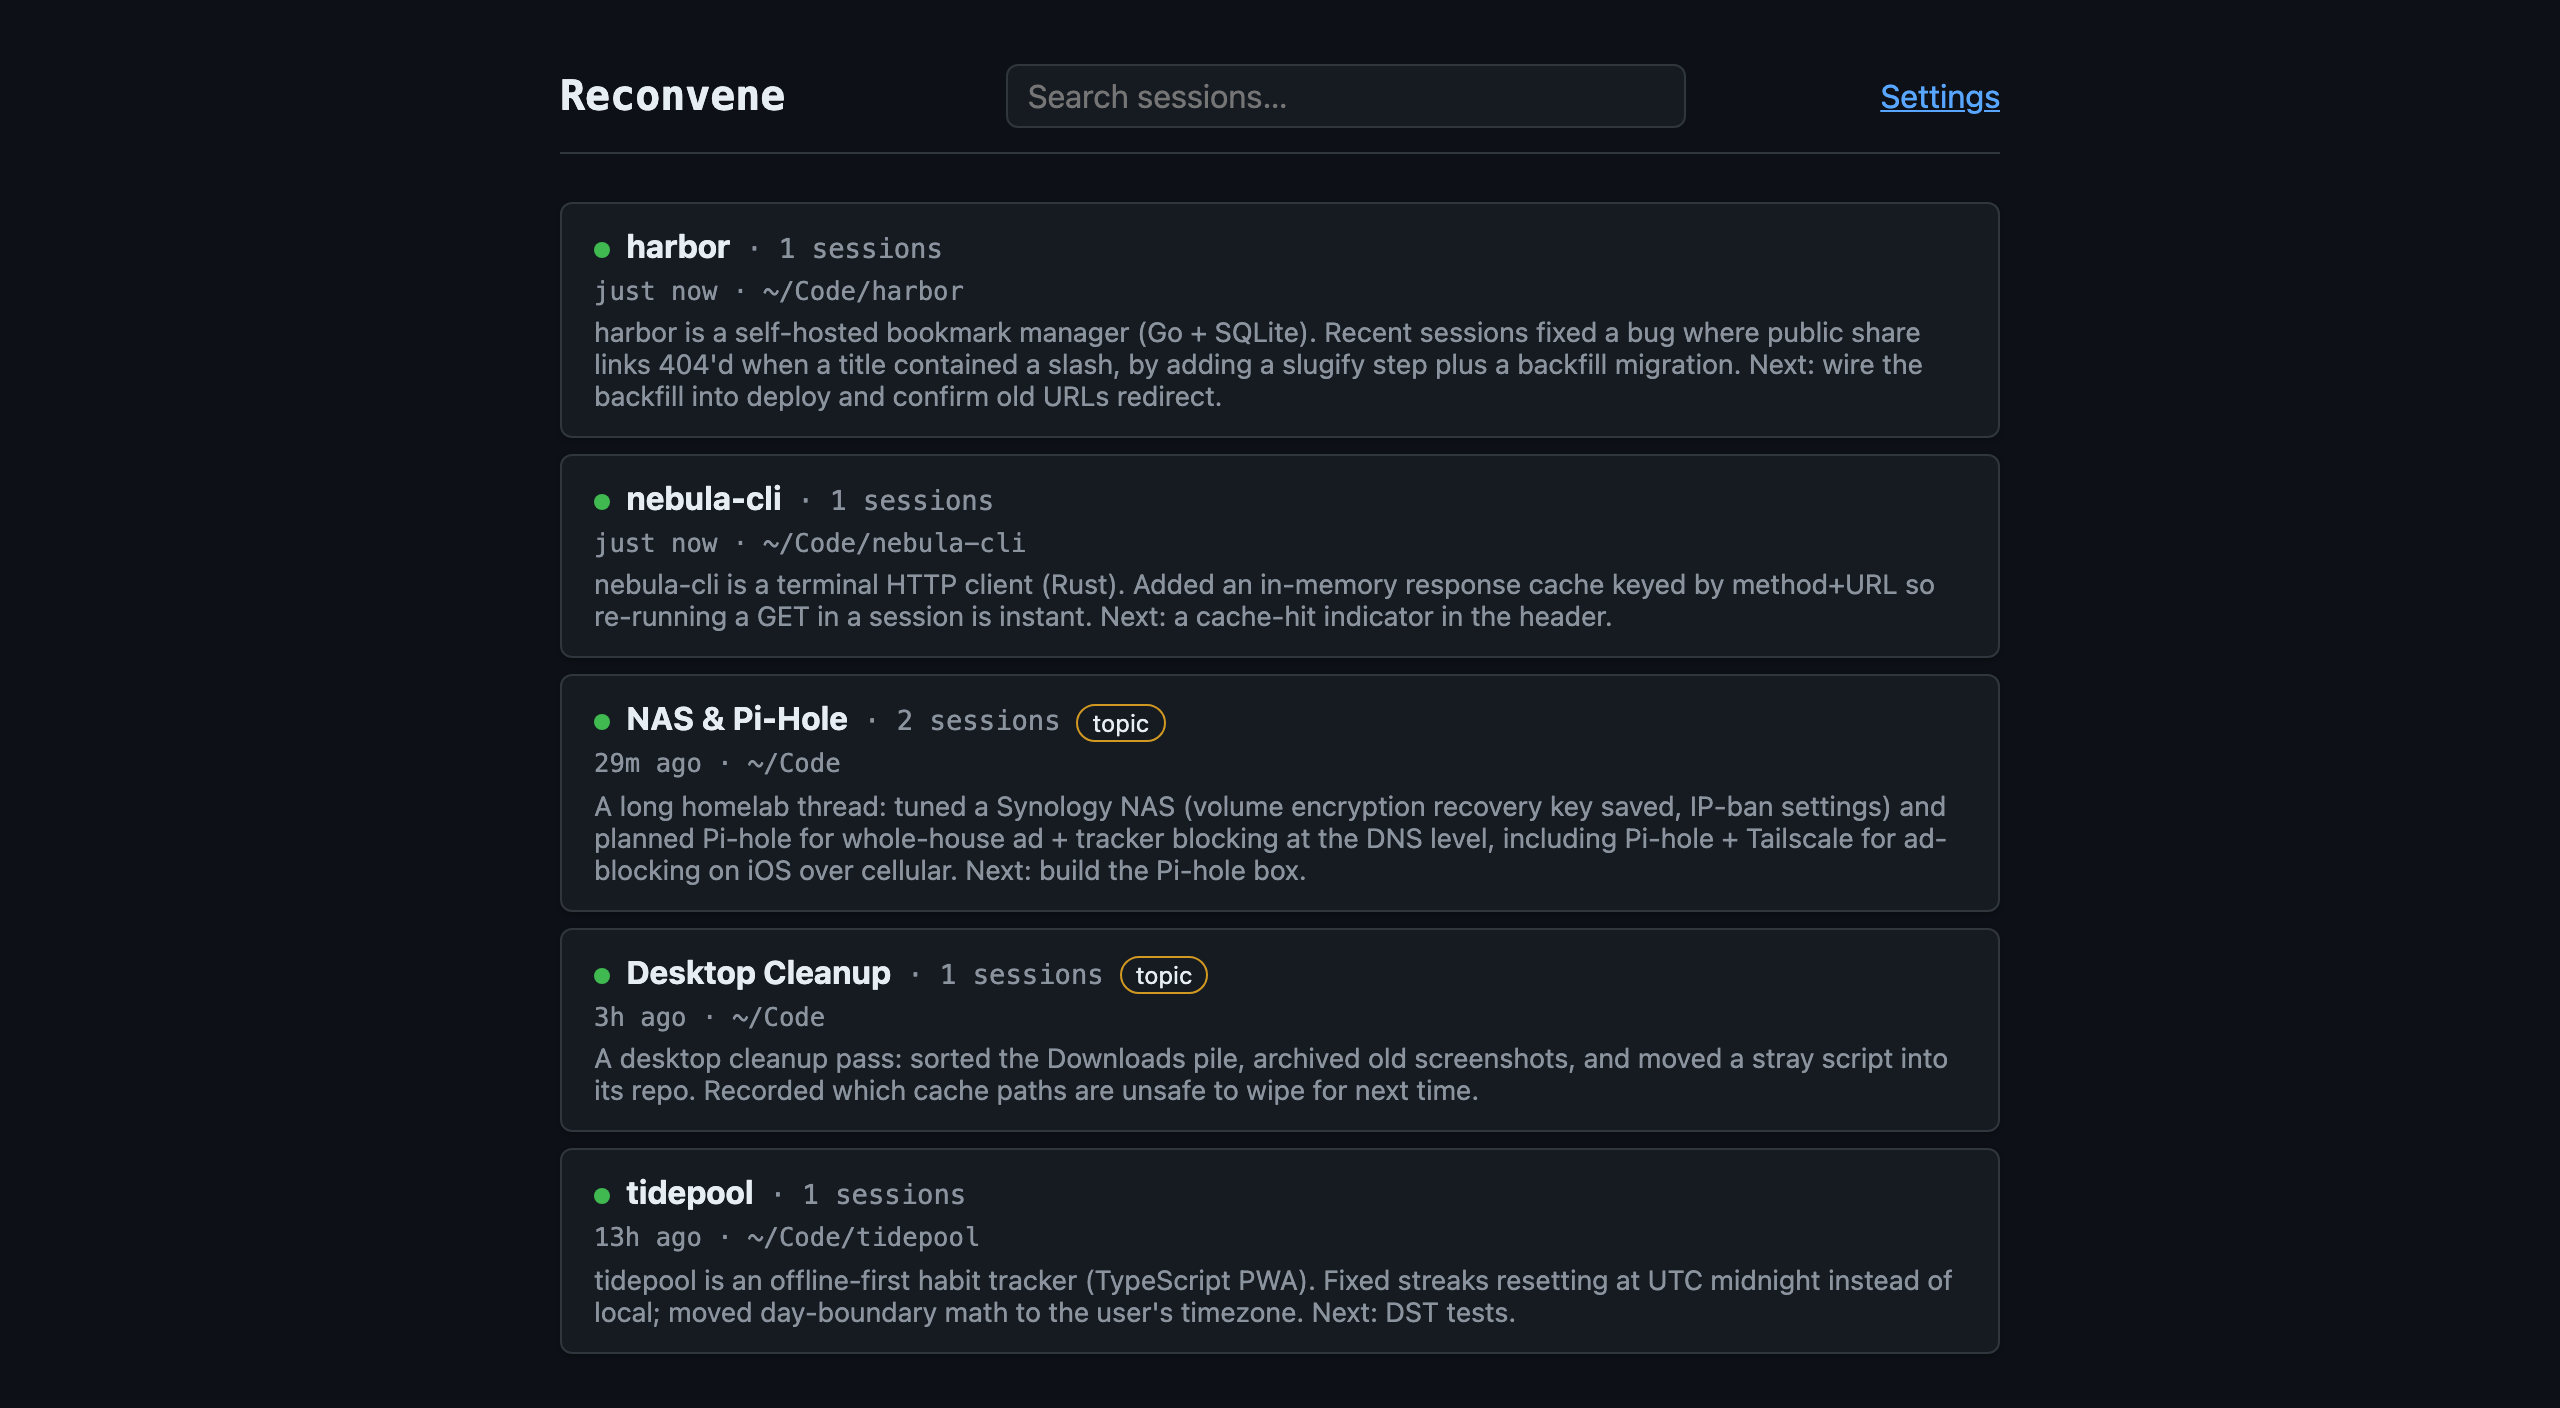
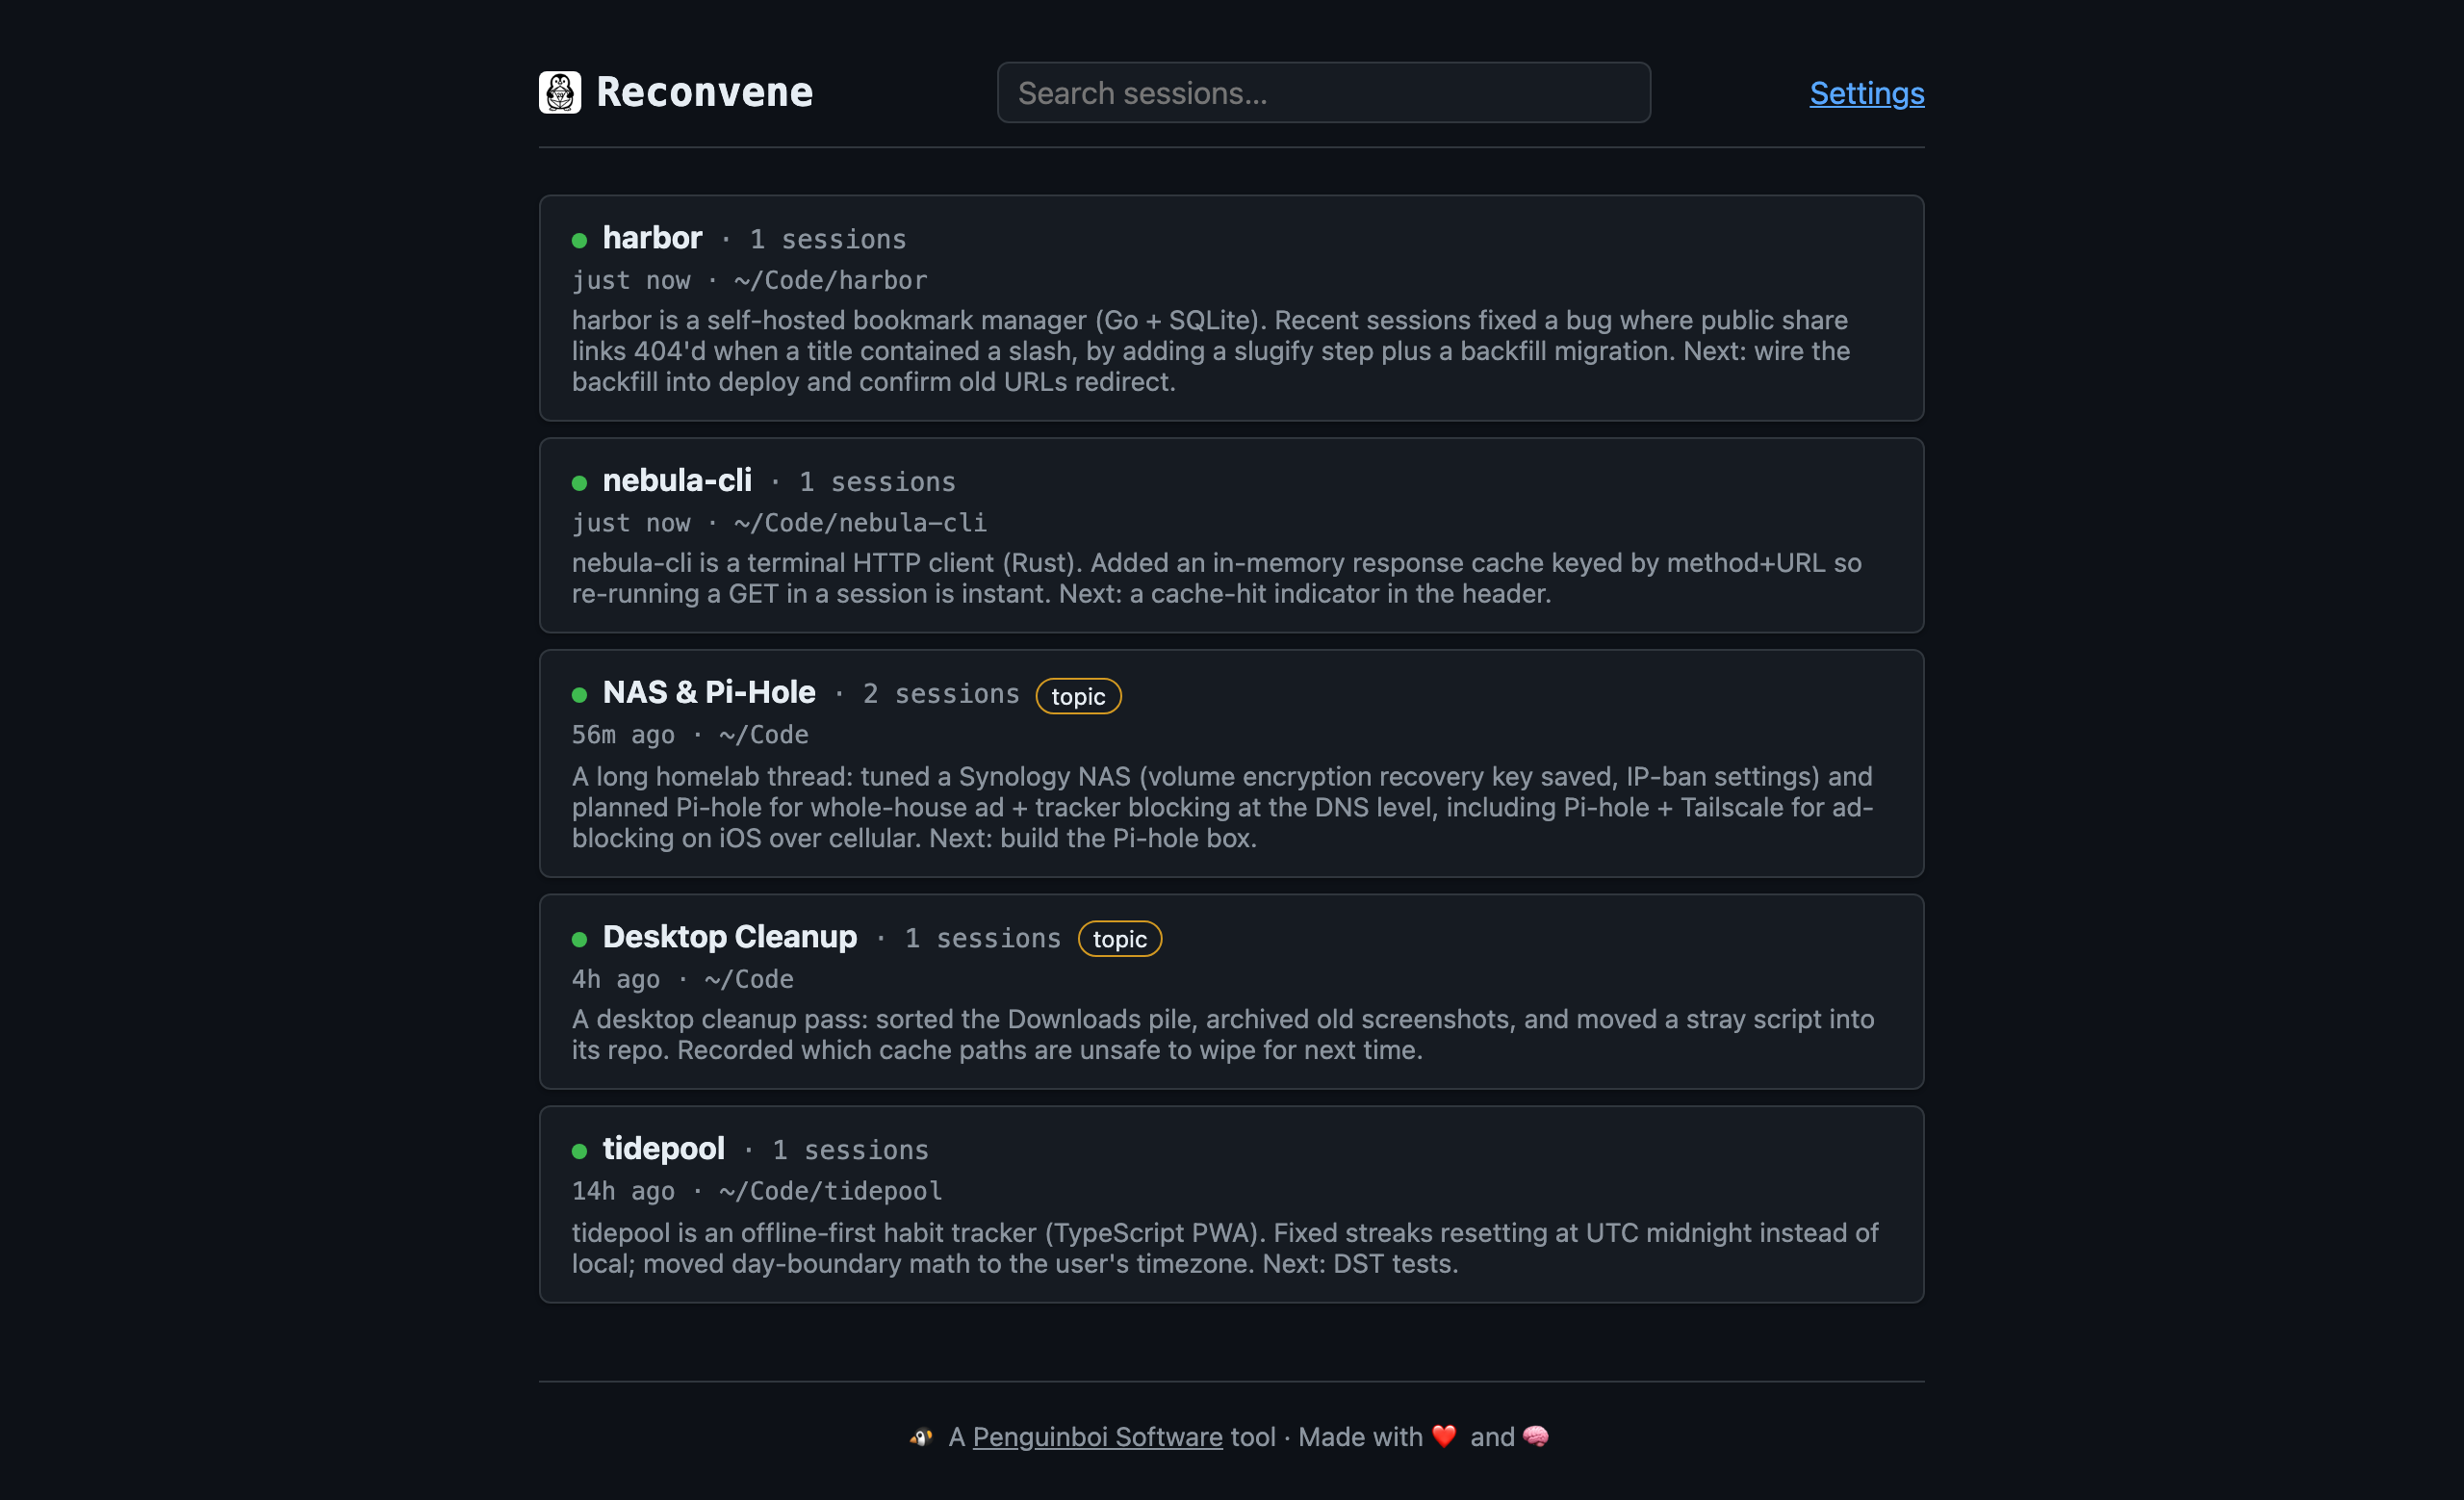
feat: Penguinboi Software brand polish
Tasteful identity + attribution without disrupting the GitHub-dark dev-tool look:
penguin+d20 favicon (from the landing set) + a small topbar logo mark, a quiet
'A Penguinboi Software tool · Made with ❤️ and 🧠' footer on both pages, a
theme-color meta, a README footer, pyproject authorship/URL, and a one-line CLI
byline. No games fonts, no navy repaint, no branding in the fzf panes.

diff --git a/reconvene/web/static/style.css b/reconvene/web/static/style.css
@@ -84,6 +84,14 @@ a:hover {
 
 .topbar-home {
   text-decoration: none;
+  display: inline-flex;
+  align-items: center;
+  gap: 8px;
+}
+
+.topbar-logo {
+  display: block;
+  border-radius: 4px;
 }
 
 .topbar-home:hover {
@@ -319,3 +327,19 @@ table td, table th {
   opacity: 0.6;
   font-style: italic;
 }
+
+/* Penguinboi Software footer — quiet attribution in reconvene's own muted palette */
+.site-footer {
+  margin: 40px auto 24px;
+  padding-top: 16px;
+  max-width: 900px;
+  text-align: center;
+  font-size: 0.85em;
+  color: var(--text-muted);
+  border-top: 1px solid var(--border);
+}
+.site-footer a {
+  color: var(--text-muted);
+  text-decoration: underline;
+}
+.site-footer a:hover { color: var(--link); }

diff --git a/reconvene/web/static/index.html b/reconvene/web/static/index.html
@@ -3,11 +3,15 @@
 <head>
   <meta charset="utf-8">
   <title>Reconvene</title>
+  <meta name="theme-color" content="#0d1117">
+  <link rel="icon" type="image/png" sizes="32x32" href="/favicon-32x32.png">
+  <link rel="icon" type="image/png" sizes="16x16" href="/favicon-16x16.png">
+  <link rel="apple-touch-icon" href="/apple-touch-icon.png">
   <link rel="stylesheet" href="/style.css">
 </head>
 <body>
   <div class="topbar">
-    <a href="/" class="topbar-home"><h1>Reconvene<span class="cursor">▊</span></h1></a>
+    <a href="/" class="topbar-home"><img class="topbar-logo" src="/favicon.png" alt="Penguinboi Software" width="22" height="22"><h1>Reconvene<span class="cursor">▊</span></h1></a>
     <input id="searchBox" type="search" placeholder="Search sessions…" autocomplete="off">
     <a href="/settings.html">Settings</a>
   </div>
@@ -21,6 +25,9 @@
       <button id="modalCancel">Cancel</button>
     </div>
   </div>
+  <footer class="site-footer">
+    🐧 A <a href="https://penguinboisoftware.com" rel="noopener noreferrer">Penguinboi Software</a> tool · Made with ❤️ and 🧠
+  </footer>
   <script src="/app.js"></script>
 </body>
 </html>

diff --git a/reconvene/web/static/settings.html b/reconvene/web/static/settings.html
@@ -3,11 +3,15 @@
 <head>
   <meta charset="utf-8">
   <title>Reconvene — Settings</title>
+  <meta name="theme-color" content="#0d1117">
+  <link rel="icon" type="image/png" sizes="32x32" href="/favicon-32x32.png">
+  <link rel="icon" type="image/png" sizes="16x16" href="/favicon-16x16.png">
+  <link rel="apple-touch-icon" href="/apple-touch-icon.png">
   <link rel="stylesheet" href="/style.css">
 </head>
 <body>
   <div class="topbar">
-    <a href="/" class="topbar-home"><h1>Reconvene<span class="cursor">▊</span></h1></a>
+    <a href="/" class="topbar-home"><img class="topbar-logo" src="/favicon.png" alt="Penguinboi Software" width="22" height="22"><h1>Reconvene<span class="cursor">▊</span></h1></a>
     <a href="/">Journal</a>
   </div>
   <h2>Settings</h2>
@@ -40,6 +44,9 @@
     <p>Extra arguments appended to <code>claude --resume &lt;session&gt;</code> when opening a session.</p>
   </div>
   <button id="save">Save</button>
+  <footer class="site-footer">
+    🐧 A <a href="https://penguinboisoftware.com" rel="noopener noreferrer">Penguinboi Software</a> tool · Made with ❤️ and 🧠
+  </footer>
   <script src="/settings.js"></script>
 </body>
 </html>

diff --git a/tests/e2e/test_journal_page.py b/tests/e2e/test_journal_page.py
@@ -306,3 +306,21 @@ def test_search_result_modal_shows_session_recap(page, e2e_server, ccrider_db):
     page.locator(".search-hit").first.click()
     # The fake recap runner returns "full recap text" as the DETAIL body.
     page.get_by_text("full recap text").wait_for()
+
+
+def test_page_has_penguinboi_brand(page, e2e_server, ccrider_db):
+    base_url, _, _, _ = e2e_server
+    add_session(ccrider_db, "s1", "/Users/x/Code/myproject", "2026-07-08 00:00:00", message_count=12)
+    add_message(ccrider_db, "s1", "user", "hi", sequence=1)
+    page.goto(base_url)
+    # Topbar penguin logo
+    logo = page.locator("img.topbar-logo")
+    assert logo.count() == 1
+    assert "favicon" in logo.get_attribute("src")
+    # Footer attribution linking to penguinboisoftware.com
+    footer_link = page.locator(".site-footer a[href='https://penguinboisoftware.com']")
+    assert footer_link.count() == 1
+    assert "Penguinboi Software" in footer_link.inner_text()
+    # Favicon is actually served
+    resp = page.request.get(f"{base_url}/favicon.png")
+    assert resp.status == 200

diff --git a/tests/test_cli.py b/tests/test_cli.py
@@ -160,3 +160,8 @@ def test_main_organize_flag_runs_and_exits(tmp_path, capsys, monkeypatch, ccride
               stdin_isatty=True, input_fn=lambda _: "1")
     assert rc == 0
     assert "Homelab Fixes" in capsys.readouterr().out
+
+
+def test_choose_frontend_shows_penguinboi_byline(capsys):
+    cli._choose_frontend(input_fn=lambda prompt: "1")
+    assert "Penguinboi Software" in capsys.readouterr().out

diff --git a/reconvene/cli.py b/reconvene/cli.py
@@ -29,7 +29,7 @@ def find_free_port(preferred=4242, tries=10) -> int:
 
 
 def _choose_frontend(input_fn=input) -> str | None:
-    print("Reconvene")
+    print("Reconvene — a Penguinboi Software tool")
     print("  [1] Web view")
     print("  [2] TUI")
     while True:

diff --git a/README.md b/README.md
@@ -91,3 +91,7 @@ E2E tests (`tests/e2e/`) drive a real browser against a real running server inst
 spawned during tests.
 
 See `THIRD_PARTY_LICENSES.md` for third-party software this project depends on.
+
+---
+
+🐧 A [Penguinboi Software](https://penguinboisoftware.com) tool. Made with ❤️ and 🧠.